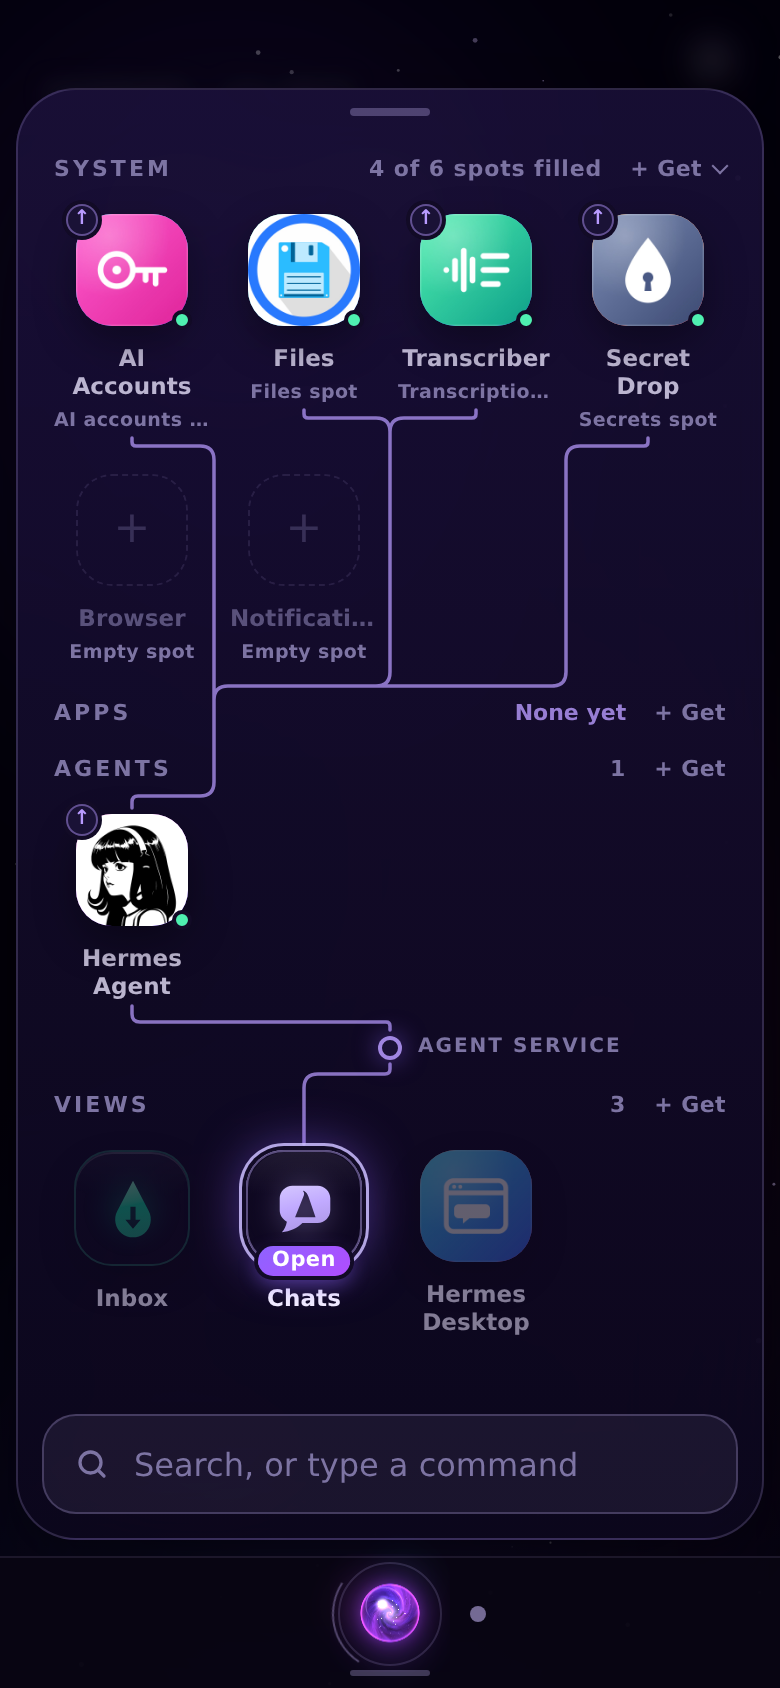
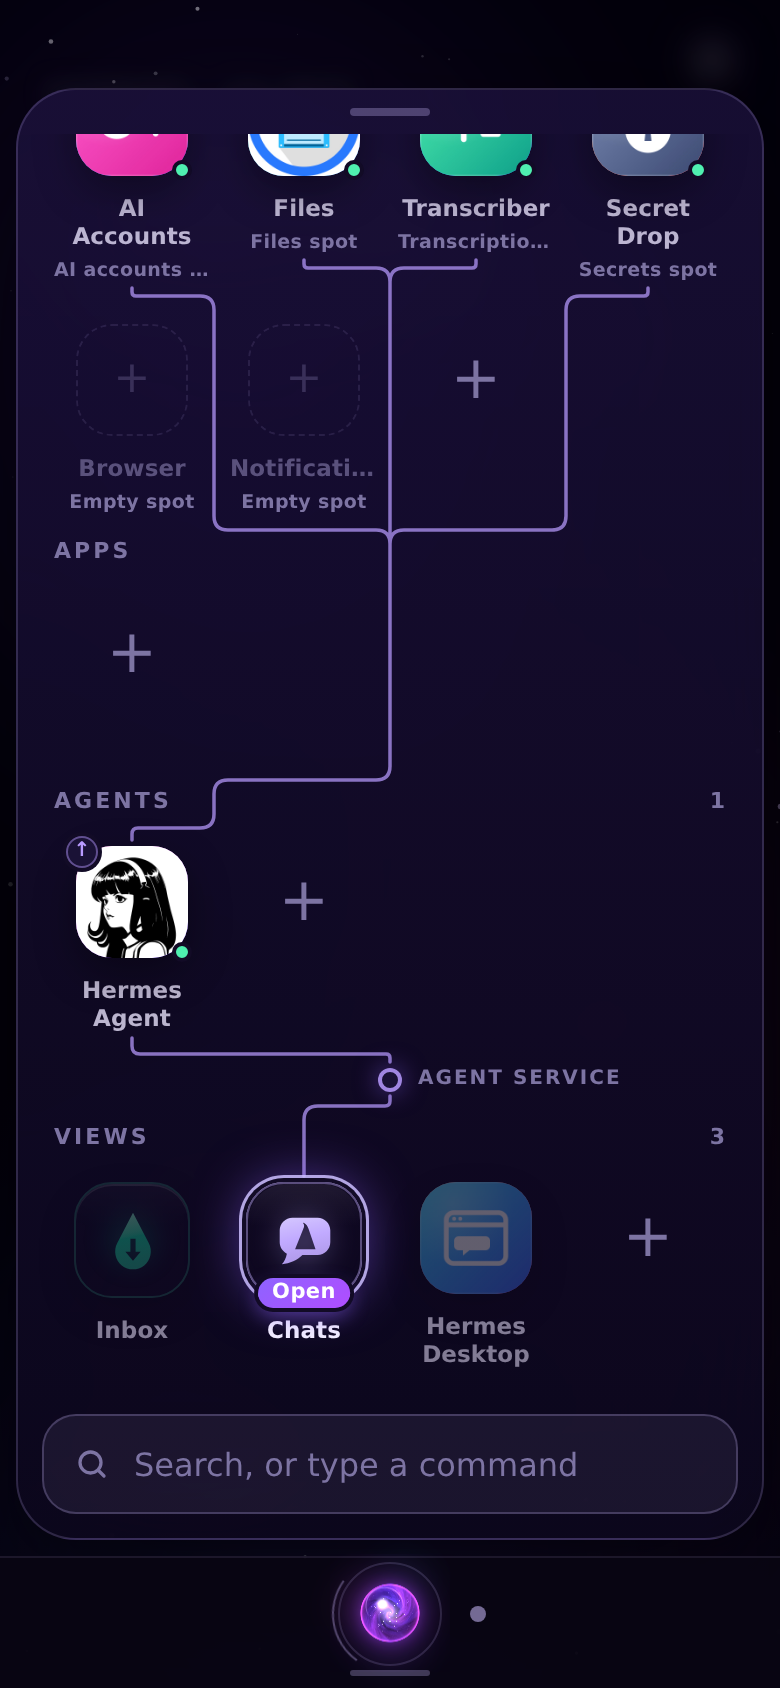
Wizard views: '+' sits in the next app's place as a bare symbol (no tile, no label); Get link removed from title lines

diff --git a/wizard-views/wizard-apps.js b/wizard-views/wizard-apps.js
@@ -272,11 +272,11 @@ function drawGraph(el, g) {
   const row = (k) => {
     const r = L.rows[k];
     const fold = g.collapsible?.has(k);
-    const head = `<h4${fold ? ` data-wam-row="${k}" class="wam-fold-h${r.shut ? ' shut' : ''}"` : ''}><b>${g.label?.(k) || k}</b><span>${g.note(k, L)}${g.gets ? `<button class="wam-geth" data-wam-get="${k}" aria-label="${GETS[k]}">+ Get</button>` : ''}${fold ? '<i class="wam-chev"></i>' : ''}</span></h4>`;
+    const head = `<h4${fold ? ` data-wam-row="${k}" class="wam-fold-h${r.shut ? ' shut' : ''}"` : ''}><b>${g.label?.(k) || k}</b><span>${g.note(k, L)}${fold ? '<i class="wam-chev"></i>' : ''}</span></h4>`;
     if (r.shut) return `<div class="lgroup wam-row shut" data-row="${k}">${head}</div>`;
     // Nothing in this layer yet: just its title line, so lines that pass it run by a title, never an empty box.
     if (!r.cells.length && !r.more)
-      return `<div class="lgroup wam-row empty" data-row="${k}"><h4><b>${g.label?.(k) || k}</b><span><em class="wam-none-k">None yet</em>${g.gets ? `<button class="wam-geth" data-wam-get="${k}" aria-label="${GETS[k]}">+ Get</button>` : ''}</span></h4></div>`;
+      return `<div class="lgroup wam-row empty" data-row="${k}"><h4><b>${g.label?.(k) || k}</b><span><em class="wam-none-k">None yet</em></span></h4></div>`;
     const cells = r.cells.map((c) => g.html(c.id, `wam-${c.kind}`, place(c))).join('');
     const m = r.more;
     const more = m
@@ -439,7 +439,9 @@ function wires(el, L, E) {
     let y = yOf(u.vi, hub(u, dn));
     pts.push([x, y]);
     if (dn.vi - u.vi > 1 && gaps.length) {
-      x = near(ex, y, yOf(dn.vi - 1, hub(u, dn)));
+      const used = Math.max(0, ...parts.slice(u.vi + 1, dn.vi).map((n) => n.querySelectorAll?.('.lgrid > .lapp').length || 0));
+      const clear = gaps.filter((_, i) => i >= Math.min(used, gaps.length - 1));
+      x = clear.length ? clear.reduce((p, q) => (Math.abs(q - ex) < Math.abs(p - ex) ? q : p)) : near(ex, y, yOf(dn.vi - 1, hub(u, dn)));
       pts.push([x, y]);
       y = yOf(dn.vi - 1, hub(u, dn));
       pts.push([x, y]);
@@ -549,6 +551,8 @@ const GETS = { Views: 'Get views', Agents: 'Get agents', Apps: 'Get apps', Syste
 const OWN_SPOT = new Set(['shell', 'agent-service', 'agent']);
 const isNode = (id) => !/^(get|spot):/.test(id);
 
+const moreTile = (k, p) =>
+  `<button class="lapp wam-addnext" style="${p.css}" data-wam-get="${k}" data-wam-key="get:${k}" aria-label="${GETS[k]}" title="${GETS[k]}"><span class="ic">+</span><span class="nm">&nbsp;</span></button>`;
 const spotTile = (s, cls, p) =>
   `<button class="lapp wam-espot ${cls}" style="${p.css}" data-wam-get="System" data-wam-key="spot:${esc(s.slot)}" title="${esc(`${s.name} spot is empty. Get an app to fill it.`)}"><span class="ic">+</span><span class="nm">${esc(String(s.name).replace(/\s*\(.*\)$/, ''))}</span><span class="wam-spot-k">Empty spot</span></button>`;
 
@@ -608,6 +612,7 @@ export async function renderMyApps(el, ctx = {}) {
       rows.System.push(id);
     }
     for (const a of apps) if (!spots.has(a.id)) rows[rowOf(a)].push(a.id);
+    for (const k of ROWS) rows[k].push(`get:${k}`); // the "+" sits where the next app will go
     const agent = cache.parking.find((s) => s.slot === 'agent')?.active;
     const parked = new Map([...spots].map(([id, s]) => [s.slot, id]));
     if (agent) parked.set('agent', agent);
@@ -624,13 +629,13 @@ export async function renderMyApps(el, ctx = {}) {
       rows,
       links,
       state: st,
-      pinned: new Set(),
+      pinned: new Set(ROWS.map((k) => `get:${k}`)),
       viewsAt: viewsAt(el, ctx),
-      gets: true,
       service: true,
       wrap: new Set(ROWS),
       collapsible: new Set(['System']),
       html: (id, cls, p) => {
+        if (id.startsWith('get:')) return moreTile(id.slice(4), p);
         if (shellIds.has(id)) return shellTile(shellIds.get(id), cls, p, id, id === st.anchor);
         if (id.startsWith('spot:')) return spotTile(spots.get(id), cls, p);
         const a = byId.get(id);

diff --git a/wizard-views/wizard-apps.css b/wizard-views/wizard-apps.css
@@ -811,3 +811,24 @@ html .wam .wam-panel .wam-note {
   color: var(--ink-3);
   opacity: 0.8;
 }
+/* "+": where the next app goes. Only the symbol: no tile, no ring, no label, so it never reads as an app. */
+.wam .lapp.wam-addnext .ic {
+  background: none;
+  box-shadow: none;
+  outline: 0;
+  color: var(--ink-3);
+  font-size: 30px;
+  font-weight: 200;
+  opacity: 0.6;
+  transition: opacity 160ms ease, color 160ms ease;
+}
+.wam .lapp.wam-addnext:hover .ic,
+.wam .lapp.wam-addnext:focus-visible .ic {
+  opacity: 1;
+  color: var(--violet-2);
+}
+.wam-graph .lapp.wam-addnext,
+.wam-graph .lapp.wam-addnext > * {
+  opacity: 1 !important;
+  filter: none !important;
+}
